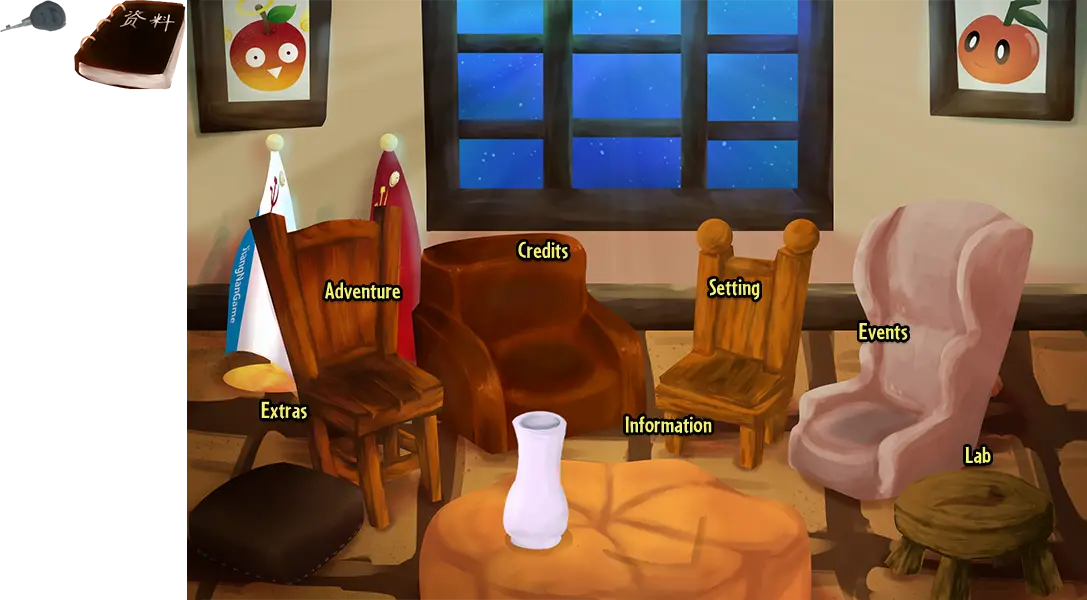
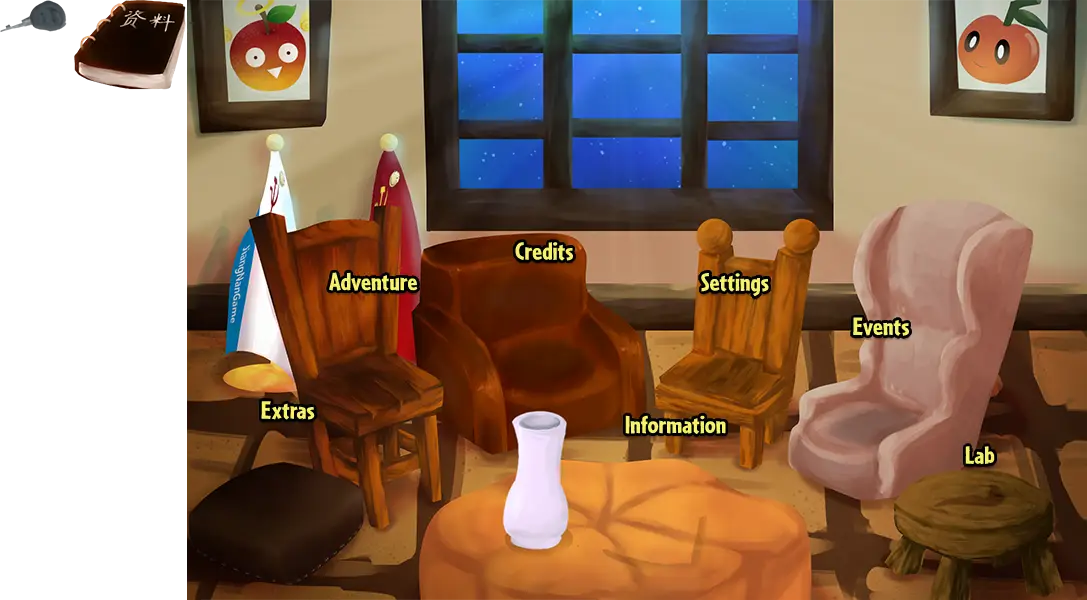
new 2022/1/8

diff --git a/en-us/Styles.css b/en-us/Styles.css
@@ -15,14 +15,14 @@
 }
 /*Tips for yellow characters on black background in the game*/
 #Zimu{
-    font-size: 36px;
+    font-size: 35px;
     -webkit-text-stroke: 0.6px #000;
 }
 /*The name of the new plant, in the customs clearance screen*/
 #dNewPlantName{
     top:405px;
     -webkit-text-stroke: 2px black;
-    font-size: 50px;
+    font-size: 40px;
 }
 /*bottom-left corner tip (new plant)*/
 #dNewPlantTooltip{
@@ -35,33 +35,38 @@
 /*The name of the new props (like star), in the customs clearance screen*/
 #dNewPropName{
     font-weight: bold;
-    -webkit-text-stroke: 0.5px black;
+    -webkit-text-stroke: 1px black;
 }
 /*Tip under it*/
 #dNewPropTooltip{
     font-weight: normal;
+    -webkit-text-stroke: 0.5px black;
 }
 /*Level Name In Selection Menu(The big yellow one)*/
 #LvlInfoUI #guankaming{
-    -webkit-text-stroke: 0.4px black;
+    -webkit-text-stroke: 1px black;
     text-shadow: 1px 1px 1px #000;
     font-weight: 800;
     font-size: 28px;
 }
 /*Informations In Selection Menu*/
 #LvlInfoUI #textIn{
-    -webkit-text-stroke: 0.7px black;
+    -webkit-text-stroke: 1px black;
     text-shadow: 1px 1px 1px #000;
     font-weight: 800;
     font-size: 25px;
 }
 /*Restart and Quit buttons in Pause Menu*/
 #Menu .button{
-    -webkit-text-stroke: 0.4px black;
+    -webkit-text-stroke: 1.2px black;
+    text-shadow: 1px 1.5px 1.5px #000;
+    letter-spacing:2px;
+    font-size: 35px;
 }
 /*Auto Collect Sun And Mute checkbox in Pause Menu*/
 #Menu .OMd0 .OMd1{
-    -webkit-text-stroke: 0.4px black;
+    -webkit-text-stroke: 0.8px black;
+    font-size: 17px;
 }
 /*Fast Setting*/
 #kuaisushezhi .OMd1{
@@ -70,21 +75,23 @@
 }
 /*Names of Activites In Notice Menu*/
 #Notice .ActName{ 
-    font-weight: 900; 
+    font-weight: 1000; 
     font-size: 36px; 
-    -webkit-text-stroke: 1.0px black; 
+    -webkit-text-stroke: 1.5px black; 
 }
 /*Dates of Activites In Notice Menu*/
 #Notice .ActDate{ 
-    font-weight: 900; 
-    font-size: 18px; 
-    -webkit-text-stroke: 0.5px black; 
+    font-weight: 1000; 
+    font-size: 20px; 
+    text-shadow: 1px 1px 0.7px #000;
+    -webkit-text-stroke: 1px black; 
 }
 /*Number of Levels In Notice Menu*/
 #Notice .ActNumber{ 
-    font-weight: 900; 
-    font-size: 18px; 
-    -webkit-text-stroke: 0.5px black; 
+    font-weight: 1000; 
+    font-size: 20px; 
+    text-shadow: 1px 1px 0.7px #000;
+    -webkit-text-stroke: 1px black; 
 }
 /*Score Text in game*/
 #jifen{ 
@@ -95,13 +102,18 @@
 }
 /*Level Name in game*/
 #sFlagMeterTitleF{
-    font-size:25px;
-    font-weight:500;
+    font-size: 25px;
+    font-weight: bold;
+    text-shadow: 1px 1.5px 1.5px #000;
+    -webkit-text-stroke: 0.6px black; 
 }
 /*Alert Box*/
 #jngAlert #text{
-    font-weight:normal;
-    letter-spacing:2px;
+    font-weight:bold;
+    font-size: 17px;
+    text-shadow: 1px 1px 1px #000;
+    -webkit-text-stroke: 0.3px black; 
+    letter-spacing:1.5px;
 }
 /*Props In Selection Map (like Erlenmeyer flask)*/
 #dCueName{

diff --git a/en-us/Custom_Modifications.js b/en-us/Custom_Modifications.js
@@ -1,0 +1,17 @@
+"use strict";
+{
+    let FilePath = "./languages/UI_Language/en-us/"
+    loadRes({
+        "js":[],
+        "css":[],
+        "img":[
+            FilePath+"uis/main.webp",
+            FilePath+"uis/map.webp",
+            FilePath+"uis/Fuben1.webp",
+            FilePath+"uis/Introduction.webp"
+        ],
+        "au":[]
+    });
+    jngTemplate.template.Writer = `<div id="wrap"><img src="${FilePath}uis/writers.webp"></div>`;
+    
+};
